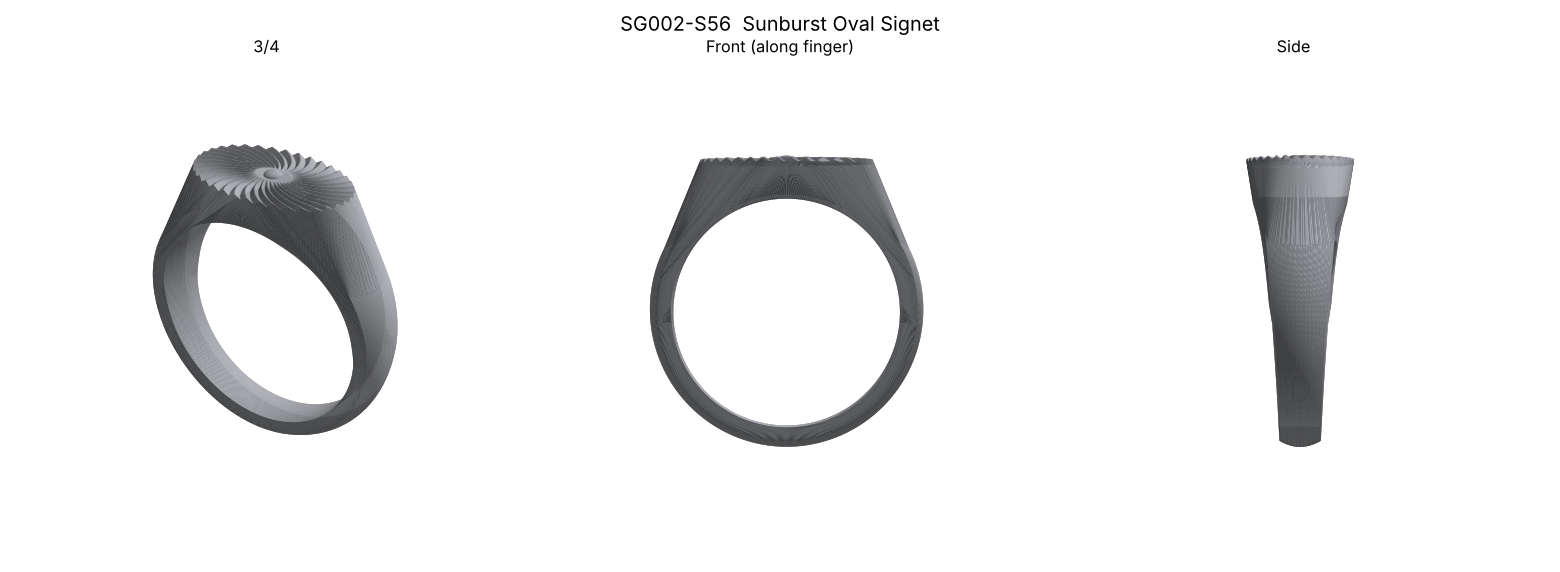
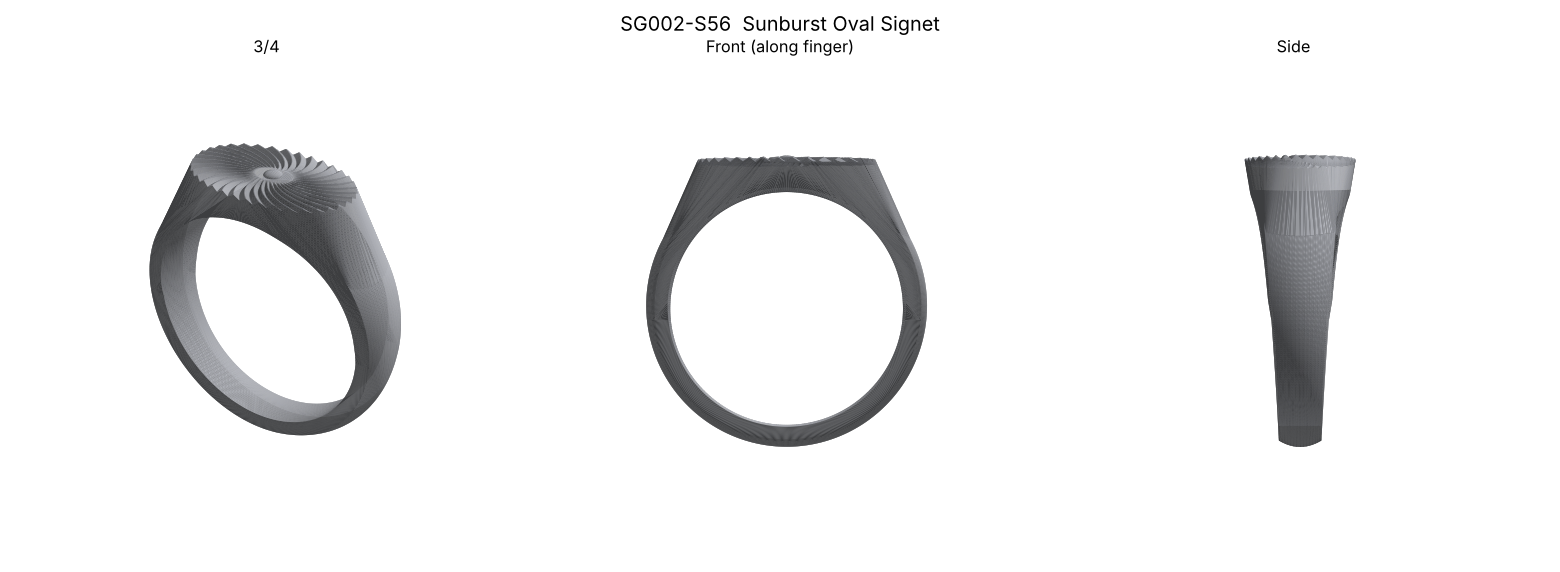
jewelry-cad: signets v4 - lower faces (SG001 2.8, SG002 2.4, SG003 2.2 mm head); onyx seat 1.5 mm
Claude-Session: https://claude.ai/code/session_01PfP4o3WJFAv6XYjE3deh4p

diff --git a/jewelry-cad/CLAUDE.md b/jewelry-cad/CLAUDE.md
@@ -25,10 +25,11 @@ business fields status/qty/costs/price are preserved). Status flow: design → a
 | RG001 | Fluted Band | v2: rounded rib ends |
 | RG002 | Bar Band | flat top panel + grooves each side |
 | RG003 | Diagonal Flute Dome | tapered, 35° flutes |
-| SG001 | Onyx Signet | v3 hull body; 10 mm flat onyx, glued; seat 1.8 mm deep |
-| SG002 | Sunburst Oval Signet | v3 hull body; 13x8.5 oval across finger, 36 swirling V facets, centre dome |
-| SG003 | Classic Round Signet | v3 slim hull body (owner: thinner); 11 mm face, head 2.6, ~6.8 g; plain flat face (engraving-ready), Miansai-style reference |
+| SG001 | Onyx Signet | v4 hull body, head 2.8; 10 mm flat onyx ≤1.5 mm thick, glued; seat 1.5 mm deep |
+| SG002 | Sunburst Oval Signet | v4 hull body, head 2.4; 13x8.5 oval across finger, 36 swirling V facets, centre dome |
+| SG003 | Classic Round Signet | v4 slim hull body; 11 mm face, head 2.2, ~6.2 g; plain flat face (engraving-ready), Miansai-style reference |
 
+Owner prefers LOW faces: head height only ~0.4 mm above the shank top thickness (keeps face-to-shank transition gentle).
 Signet references owner approved as the target look: shank widens + thickens smoothly into the head,
 crisp flat face, teardrop outline seen along the finger. v1 signets (hull head on band) were judged wrong.
 
